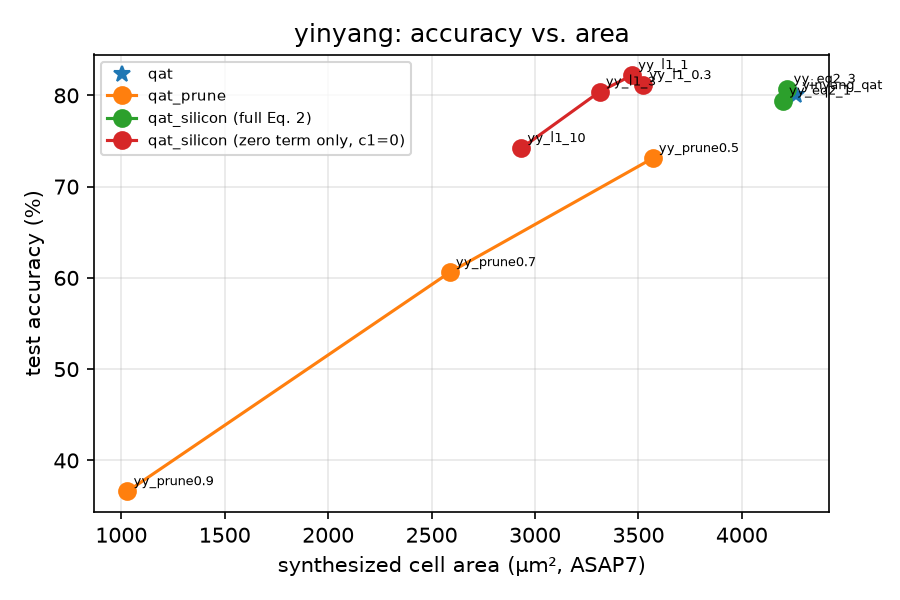
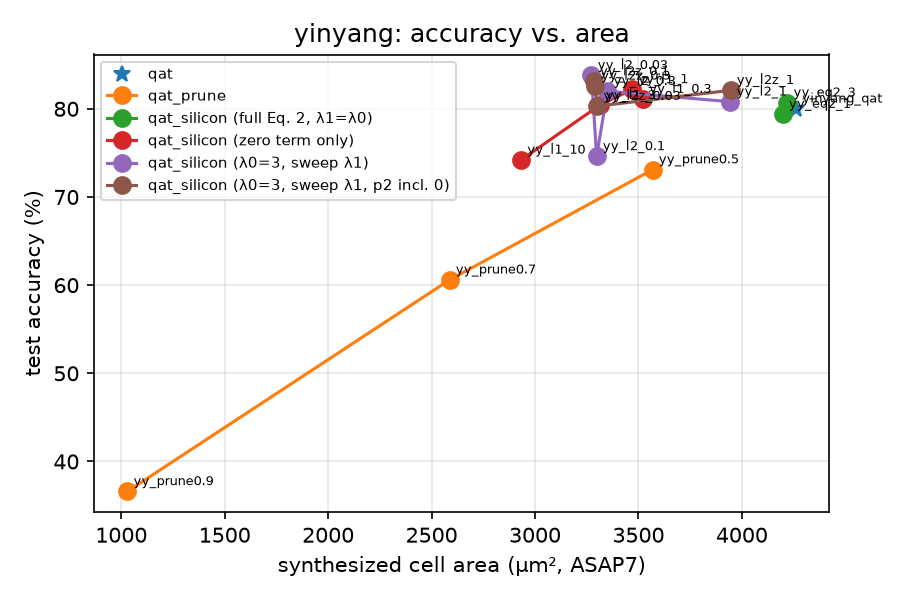
Separate lambdas for the Eq. 2 terms, zero-aware p2 target, sweep results
- train.lam_p2: separate weight for the power-of-two term (default: same as lam)
- train.p2_zero: nearest_cheap target (0, +-1, +-2, +-4, ...) instead of
  nearest_pow2, which returns fractional powers that integer hardware can't use
- scripts/sweep_yinyang_lam2.sh and README results: separate lambdas keep the
  ~22% area saving; a strong pow2 term (lam_p2=1) cuts it to 7%

diff --git a/results/compare_yinyang.md b/results/compare_yinyang.md
@@ -1,12 +1,20 @@
-| run         | method      | variant                            |   lam |   prune |   acc | spike_match   |   zero |   pow2 |   other |   area |   d_acc_pts |   area_saving_% |
-|:------------|:------------|:-----------------------------------|------:|--------:|------:|:--------------|-------:|-------:|--------:|-------:|------------:|----------------:|
-| yinyang_qat | qat         | qat                                |   0   |     0   |  80   | True          |     27 |    232 |     637 | 4261.7 |         0   |             0   |
-| yy_eq2_1    | qat_silicon | qat_silicon (full Eq. 2)           |   1   |     0   |  79.4 | True          |     53 |    332 |     511 | 4197.5 |        -0.6 |             1.5 |
-| yy_eq2_3    | qat_silicon | qat_silicon (full Eq. 2)           |   3   |     0   |  80.7 | True          |     81 |    361 |     454 | 4219.7 |         0.7 |             1   |
-| yy_l1_0.3   | qat_silicon | qat_silicon (zero term only, c1=0) |   0.3 |     0   |  81.1 | True          |    111 |    185 |     600 | 3522   |         1.1 |            17.4 |
-| yy_l1_1     | qat_silicon | qat_silicon (zero term only, c1=0) |   1   |     0   |  82.2 | True          |    143 |    200 |     553 | 3468.7 |         2.2 |            18.6 |
-| yy_l1_10    | qat_silicon | qat_silicon (zero term only, c1=0) |  10   |     0   |  74.2 | True          |    319 |    173 |     404 | 2932.9 |        -5.8 |            31.2 |
-| yy_l1_3     | qat_silicon | qat_silicon (zero term only, c1=0) |   3   |     0   |  80.4 | True          |    204 |    199 |     493 | 3312.1 |         0.4 |            22.3 |
-| yy_prune0.5 | qat_prune   | qat_prune                          |   0   |     0.5 |  73.1 | True          |    448 |     73 |     375 | 3568.3 |        -6.9 |            16.3 |
-| yy_prune0.7 | qat_prune   | qat_prune                          |   0   |     0.7 |  60.6 | True          |    627 |     32 |     237 | 2587.1 |       -19.4 |            39.3 |
-| yy_prune0.9 | qat_prune   | qat_prune                          |   0   |     0.9 |  36.6 | True          |    805 |      6 |      85 | 1029.3 |       -43.4 |            75.8 |
+| run         | method      | variant                                  |   lam |   lam_p2 | p2_zero   |   prune |   acc | spike_match   |   zero |   pow2 |   other |   area |   d_acc_pts |   area_saving_% |
+|:------------|:------------|:-----------------------------------------|------:|---------:|:----------|--------:|------:|:--------------|-------:|-------:|--------:|-------:|------------:|----------------:|
+| yinyang_qat | qat         | qat                                      |   0   |    -1    | False     |     0   |  80   | True          |     27 |    232 |     637 | 4261.7 |         0   |             0   |
+| yy_eq2_1    | qat_silicon | qat_silicon (full Eq. 2, λ1=λ0)          |   1   |    -1    | False     |     0   |  79.4 | True          |     53 |    332 |     511 | 4197.5 |        -0.6 |             1.5 |
+| yy_eq2_3    | qat_silicon | qat_silicon (full Eq. 2, λ1=λ0)          |   3   |    -1    | False     |     0   |  80.7 | True          |     81 |    361 |     454 | 4219.7 |         0.7 |             1   |
+| yy_l1_0.3   | qat_silicon | qat_silicon (zero term only)             |   0.3 |    -1    | False     |     0   |  81.1 | True          |    111 |    185 |     600 | 3522   |         1.1 |            17.4 |
+| yy_l1_1     | qat_silicon | qat_silicon (zero term only)             |   1   |    -1    | False     |     0   |  82.2 | True          |    143 |    200 |     553 | 3468.7 |         2.2 |            18.6 |
+| yy_l1_10    | qat_silicon | qat_silicon (zero term only)             |  10   |    -1    | False     |     0   |  74.2 | True          |    319 |    173 |     404 | 2932.9 |        -5.8 |            31.2 |
+| yy_l1_3     | qat_silicon | qat_silicon (zero term only)             |   3   |    -1    | False     |     0   |  80.4 | True          |    204 |    199 |     493 | 3312.1 |         0.4 |            22.3 |
+| yy_l2_0.03  | qat_silicon | qat_silicon (λ0=3, sweep λ1)             |   3   |     0.03 | False     |     0   |  83.8 | True          |    199 |    192 |     505 | 3273   |         3.8 |            23.2 |
+| yy_l2_0.1   | qat_silicon | qat_silicon (λ0=3, sweep λ1)             |   3   |     0.1  | False     |     0   |  74.6 | True          |    200 |    192 |     504 | 3297.7 |        -5.4 |            22.6 |
+| yy_l2_0.3   | qat_silicon | qat_silicon (λ0=3, sweep λ1)             |   3   |     0.3  | False     |     0   |  82   | True          |    190 |    204 |     502 | 3350.1 |         2   |            21.4 |
+| yy_l2_1     | qat_silicon | qat_silicon (λ0=3, sweep λ1)             |   3   |     1    | False     |     0   |  80.8 | True          |    131 |    212 |     553 | 3944.3 |         0.8 |             7.4 |
+| yy_l2z_0.03 | qat_silicon | qat_silicon (λ0=3, sweep λ1, p2 incl. 0) |   3   |     0.03 | True      |     0   |  80.3 | True          |    205 |    186 |     505 | 3300.7 |         0.3 |            22.5 |
+| yy_l2z_0.1  | qat_silicon | qat_silicon (λ0=3, sweep λ1, p2 incl. 0) |   3   |     0.1  | True      |     0   |  83.1 | True          |    203 |    189 |     504 | 3284.2 |         3.1 |            22.9 |
+| yy_l2z_0.3  | qat_silicon | qat_silicon (λ0=3, sweep λ1, p2 incl. 0) |   3   |     0.3  | True      |     0   |  82.6 | True          |    189 |    198 |     509 | 3290   |         2.6 |            22.8 |
+| yy_l2z_1    | qat_silicon | qat_silicon (λ0=3, sweep λ1, p2 incl. 0) |   3   |     1    | True      |     0   |  82.1 | True          |    131 |    213 |     552 | 3945.7 |         2.1 |             7.4 |
+| yy_prune0.5 | qat_prune   | qat_prune                                |   0   |    -1    | False     |     0.5 |  73.1 | True          |    448 |     73 |     375 | 3568.3 |        -6.9 |            16.3 |
+| yy_prune0.7 | qat_prune   | qat_prune                                |   0   |    -1    | False     |     0.7 |  60.6 | True          |    627 |     32 |     237 | 2587.1 |       -19.4 |            39.3 |
+| yy_prune0.9 | qat_prune   | qat_prune                                |   0   |    -1    | False     |     0.9 |  36.6 | True          |    805 |      6 |      85 | 1029.3 |       -43.4 |            75.8 |

diff --git a/README.md b/README.md
@@ -245,6 +245,36 @@ What these runs show:
 Caveats: one seed per point, so differences of about ±2 accuracy points are noise. These are synthesis areas, not
 post-layout areas. Yin-Yang is the bring-up dataset, and the 128 neurons dominate its area.
 
+### Separate lambdas for the two Eq. 2 terms (Yin-Yang)
+
+The two terms now have separate weights: `train.lam` (λ0, zero term) and `train.lam_p2` (λ1, power-of-two term).
+`train.p2_zero=true` replaces `nearest_pow2`, which can return fractional powers such as 0.25 that integer hardware
+can't use, with `nearest_cheap`, which returns the nearest of 0, ±1, ±2, ±4, …. In these runs λ0 = 3 is fixed and
+λ1 is swept (`scripts/sweep_yinyang_lam2.sh`).
+
+| λ1 | p2 target | Accuracy | Zero / pow2 / other | Area (µm²) | Saving |
+|---|---|---|---|---|---|
+| 0 (zero term only, `yy_l1_3`) | — | 80.4% | 204 / 199 / 493 | 3,312 | 22.3% |
+| 0.03 | original | 83.8% | 199 / 192 / 505 | 3,273 | 23.2% |
+| 0.1 | original | 74.6% | 200 / 192 / 504 | 3,298 | 22.6% |
+| 0.3 | original | 82.0% | 190 / 204 / 502 | 3,350 | 21.4% |
+| 1 | original | 80.8% | 131 / 212 / 553 | 3,944 | 7.4% |
+| 0.03 | incl. 0 | 80.3% | 205 / 186 / 505 | 3,301 | 22.5% |
+| 0.1 | incl. 0 | 83.1% | 203 / 189 / 504 | 3,284 | 22.9% |
+| 0.3 | incl. 0 | 82.6% | 189 / 198 / 509 | 3,290 | 22.8% |
+| 1 | incl. 0 | 82.1% | 131 / 213 / 552 | 3,946 | 7.4% |
+
+What these runs show:
+- Separate lambdas stop the power-of-two term from cancelling the zero savings. With λ1 ≤ 0.3, area stays at
+  21–23% below baseline, against 1–1.5% when λ1 = λ0. They don't add savings beyond the zero term alone.
+- At λ1 = 1 the savings drop to 7% with either p2 target. The power-of-two term holds weights near ±1 that the
+  zero term would otherwise drive to 0. A power-of-two weight saves about 0.4 µm² (1.04 − 0.65) relative to an
+  "other" weight, while a zero saves about 1 µm² and can remove a whole neuron, so the trade isn't worth it.
+- The zero-aware target (`p2_zero`) gives slightly higher accuracy at the same area for λ1 ≤ 0.3. The ±5-point
+  accuracy spread at equal weight counts (e.g. 74.6% vs. 83.8%) shows that single-seed accuracy is noisy.
+- Ideas not tried yet: turn the power-of-two term on only in the last epochs, after the zeros have settled, or
+  apply it only to weights with |w| ≥ 2.
+
 ### Calibration finding (Eq. 2)
 
 `snn2gds.calibrate` synthesized 16 single-layer test designs (32 inputs × 16 neurons, mixed zero / power-of-two /
